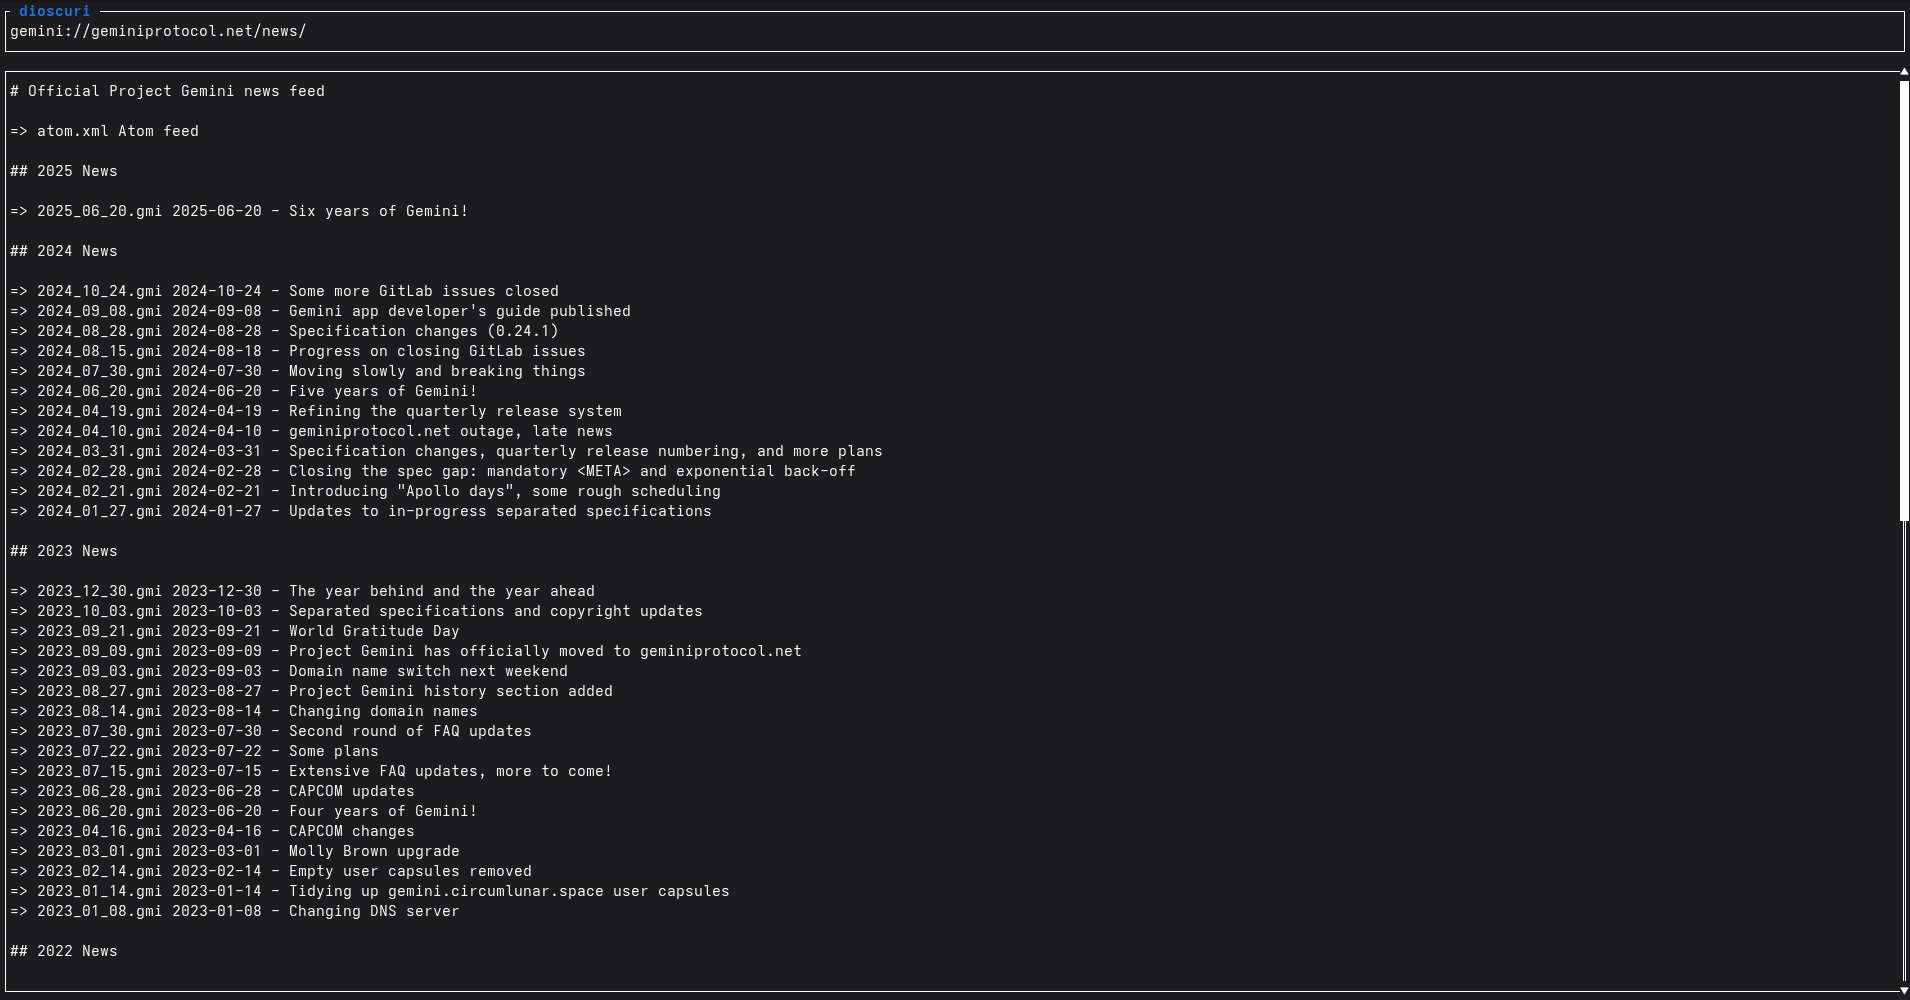
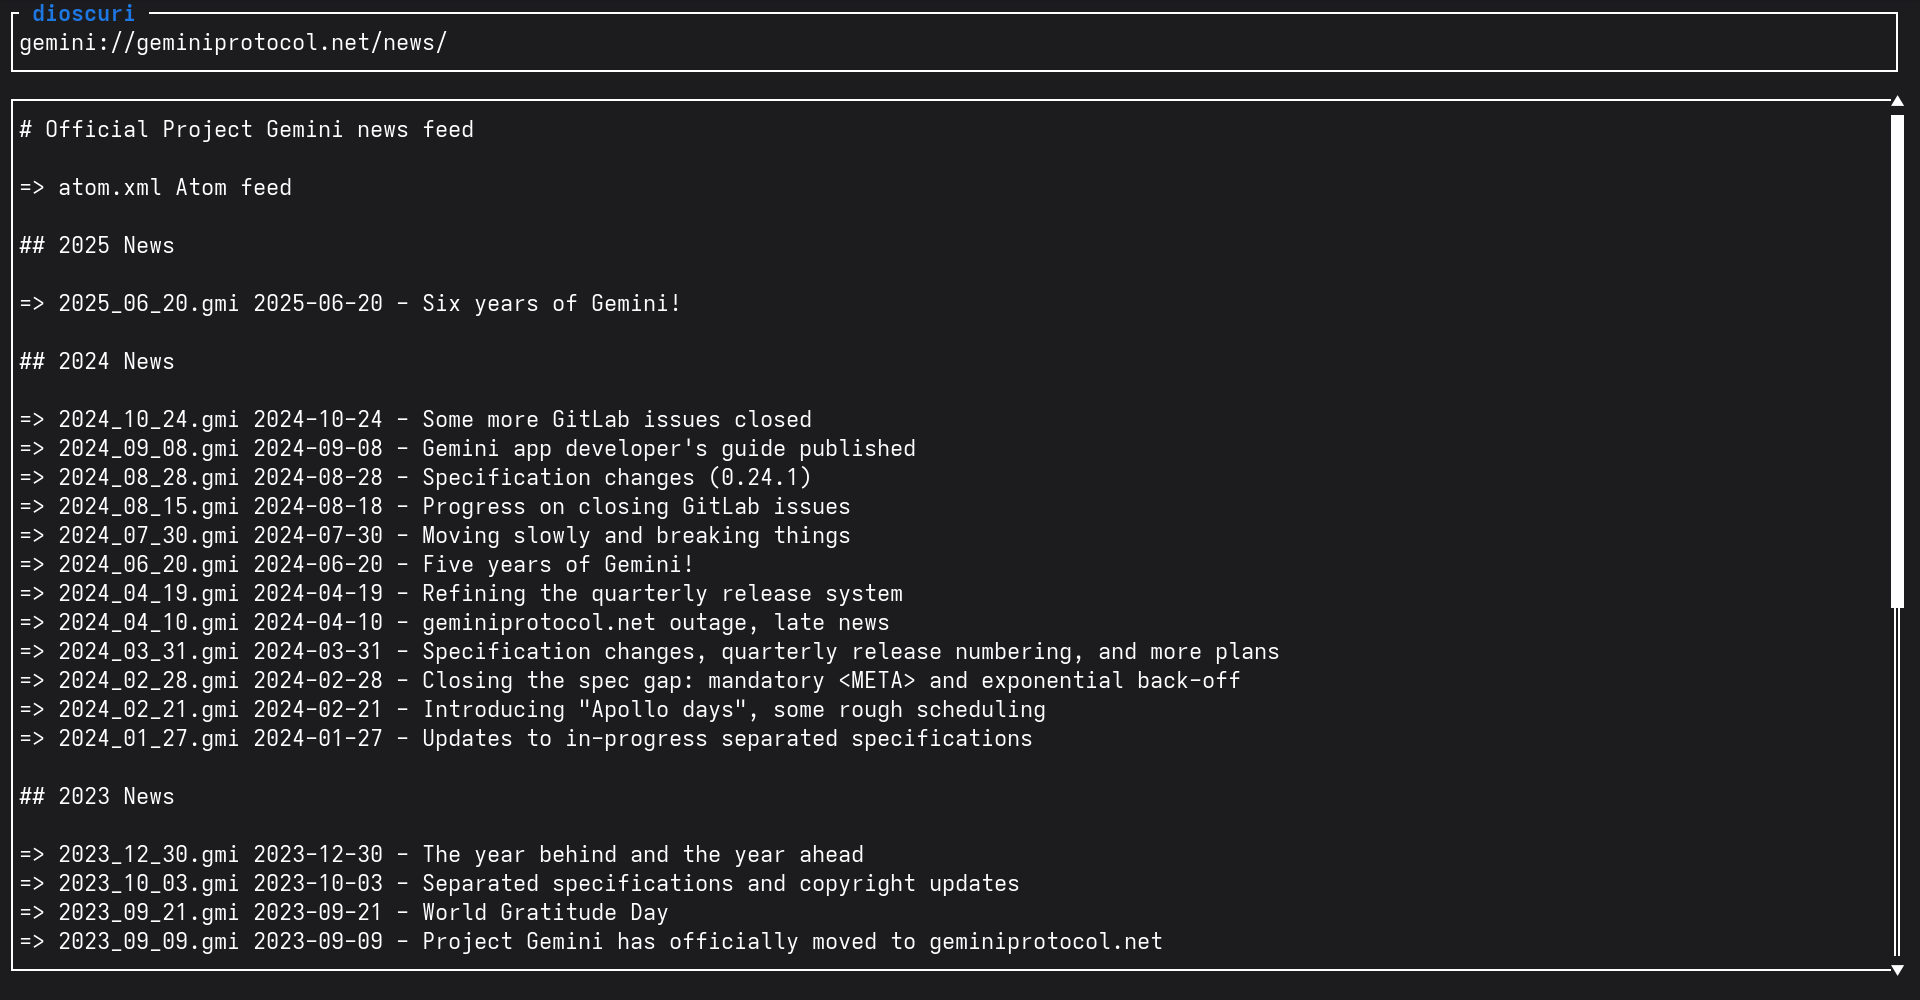
Update screenshot

diff --git a/src/main.rs b/src/main.rs
@@ -24,7 +24,7 @@ use dioscuri::SkipServerVerification;
 const PROTOCOL: &str = "gemini://";
 const HOST: &str = "geminiprotocol.net";
 const PORT: usize = 1965;
-const PATH: &str = "/docs/faq.gmi";
+const PATH: &str = "/news/";
 
 const TICK_RATE: Duration = Duration::from_millis(300);
 
